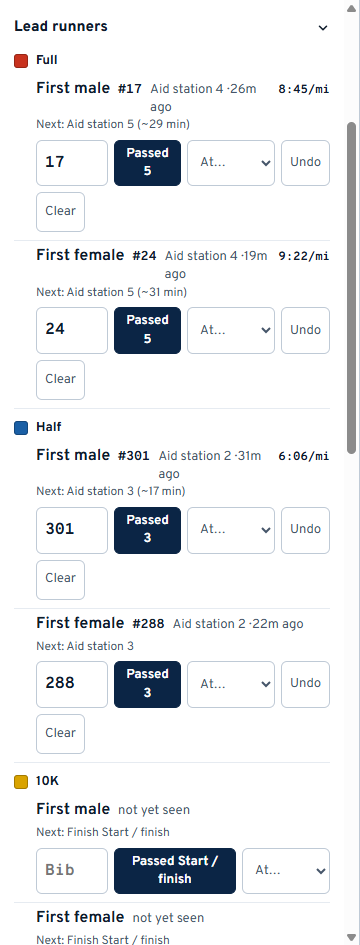
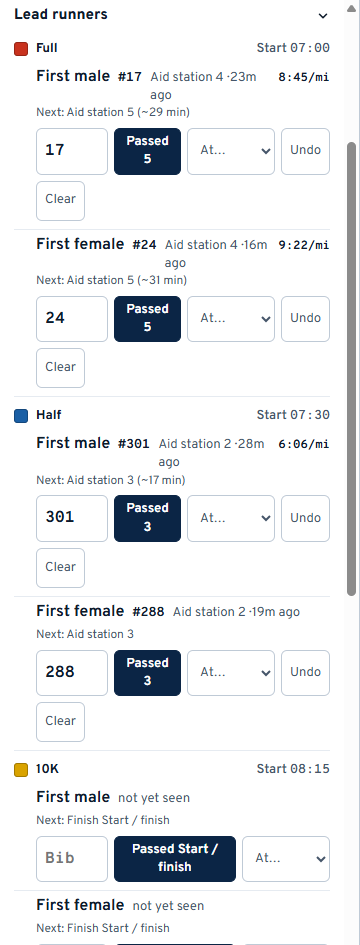
feat: race start times beside the bib colour on the lead runners (#183)
A Start column on the Courses tab stores course.start_time as 'HH:MM',
24-hour, in the event's zone, and each race's lead runners heading reads
"Full - Purple bibs  Start 07:00". Never converted: it is a time on the
day as the club typed it. Anything that is not a clock time is refused
rather than guessed at. Demo seed carries start times; the NCS lead
runners guide screenshot is re-shot.

Claude-Session: https://claude.ai/code/session_01QkbtsMnQEe8HZ7xyxXHYHB

diff --git a/src/courseops/static/setup.js b/src/courseops/static/setup.js
@@ -1288,7 +1288,7 @@ async function loadCourses() {
   const stacked = [...data.courses].reverse();
   $('course-table').innerHTML = data.courses.length ? `
     <table class="grid"><thead><tr><th></th><th>Course</th><th>Distance</th>
-      <th>Line</th><th>Bib colour</th><th></th></tr></thead><tbody>` +
+      <th>Line</th><th>Bib colour</th><th>Start</th><th></th></tr></thead><tbody>` +
     stacked.map((c) => `<tr data-row="${c.id}">
       <td class="grip-cell">${iconBtn('grip', {'data-grip': c.id},
         `Reorder ${c.name} - drag, or use the arrow keys; the top course draws on top`)}</td>
@@ -1299,6 +1299,8 @@ async function loadCourses() {
             data-bib="${c.id}">
           <input placeholder="Yellow" value="${esc(c.bib_color_name || '')}"
             data-bibname="${c.id}" style="width:90px"></td>
+      <td><input type="time" value="${esc(c.start_time || '')}" data-start="${c.id}"
+            aria-label="Start time of ${esc(c.name)}"></td>
       <td class="actions">${iconBtn('remove', {'data-delc': c.id}, `Delete ${c.name}`)}</td>
     </tr>`).join('') + '</tbody></table>'
     : '<p class="muted">No courses yet — upload a KML on the Import tab.</p>';
@@ -1327,6 +1329,7 @@ async function loadCourses() {
       { attr: 'color', name: 'color' },
       { attr: 'bib', name: 'bib_color' },
       { attr: 'bibname', name: 'bib_color_name' },
+      { attr: 'start', name: 'start_time' },
     ],
     save: (id, payload) => {
       // The two bib fields are one setting on the server (set_bib_color

diff --git a/src/courseops/static/app.js b/src/courseops/static/app.js
@@ -1638,6 +1638,18 @@ function renderLeaders() {
         ? `${leader.course_name} — ${leader.bib_color_name} bibs`
         : leader.course_name;
       head.append(swatch, name);
+      /* The start is what a leader's clock time is read against, and waves
+         start apart. Printed as stored: 'HH:MM' in the event's zone is
+         already the shape clockTime() gives everything else here. */
+      if (leader.start_time) {
+        const start = document.createElement('span');
+        start.className = 'leader-start';
+        const time = document.createElement('span');
+        time.className = 'data';
+        time.textContent = leader.start_time;
+        start.append('Start ', time);
+        head.append(start);
+      }
       host.appendChild(head);
     }
 

diff --git a/src/courseops/static/app.css b/src/courseops/static/app.css
@@ -1023,6 +1023,16 @@ body {
   font-weight: 700;
 }
 .leader-course:first-child { margin-top: 0; }
+.leader-course { flex-wrap: wrap; }
+/* Pushed to the right edge, and onto its own line under the name on a
+   narrow phone rather than squeezing the race name. The time inside takes
+   the data face (.data); the word "Start" does not. */
+.leader-start {
+  margin-left: auto;
+  font-weight: 600;
+  color: var(--ink-soft);
+  white-space: nowrap;
+}
 /* The bib colour, not the map line colour: an operator identifies a runner by
    the bib in front of them. */
 .leader-swatch {

diff --git a/tests/test_start_times.py b/tests/test_start_times.py
@@ -1,0 +1,123 @@
+"""A race's start time, shown beside its bib colour on the lead runners.
+
+Waves start at different times - the Full at 07:00, the Half at 07:30 -
+and "Purple bibs, started 07:00" is what someone reads a leader's time
+against. Stored as the club typed it, a 24-hour clock time in the event's
+own zone: it is a time on the day, not an instant, so there is nothing
+for a phone in another zone to convert and get wrong.
+"""
+from __future__ import annotations
+
+from pathlib import Path
+
+import pytest
+from fastapi.testclient import TestClient
+
+from courseops import access, admin, db, importer, leaders, progress, users, web
+from courseops.config import Settings
+from courseops.web import create_app
+
+FIXTURE = Path(__file__).parent / "fixtures" / "messy_course.kml"
+
+
+@pytest.fixture
+def race(tmp_path):
+    db_path = tmp_path / "t.sqlite3"
+    conn = db.connect(db_path)
+    db.init_schema(conn)
+    event_id = db.create_event(conn, "m2026", "Spring Marathon",
+                               center_lat=34.7, center_lon=-86.5)
+    importer.stage_file(conn, event_id, FIXTURE)
+    line = next(r["id"] for r in importer.pending_features(conn, event_id)
+                if r["geom_type"] == "linestring")
+    course_id, _, _ = importer.assign_course(conn, event_id, [line], name="Full")
+    return conn, db_path, event_id, course_id
+
+
+@pytest.mark.parametrize("typed, stored", [
+    ("07:00", "07:00"),
+    ("7:00", "07:00"),
+    (" 7:05 ", "07:05"),
+    ("13:30", "13:30"),
+])
+def test_a_start_time_is_stored_as_24_hour_hh_mm(race, typed, stored):
+    conn, _, event_id, course_id = race
+    saved = admin.update_course(conn, event_id, course_id, {"start_time": typed})
+    assert saved["start_time"] == stored
+
+
+@pytest.mark.parametrize("typed", ["7", "24:00", "07:60", "seven", "7:00 AM", ["x"]])
+def test_a_start_time_that_is_not_a_clock_time_is_refused(race, typed):
+    """Refused with a message, not stored: this is read against a leader's
+    time on race morning, and a wrong one is worse than none."""
+    conn, _, event_id, course_id = race
+    with pytest.raises(ValueError):
+        admin.update_course(conn, event_id, course_id, {"start_time": typed})
+
+
+def test_emptying_it_clears_it(race):
+    conn, _, event_id, course_id = race
+    admin.update_course(conn, event_id, course_id, {"start_time": "07:00"})
+    saved = admin.update_course(conn, event_id, course_id, {"start_time": ""})
+    assert saved["start_time"] is None
+
+
+def test_setting_it_leaves_the_bib_colour_alone(race):
+    conn, _, event_id, course_id = race
+    leaders.set_bib_color(conn, event_id, course_id, "#6633cc", "Purple")
+    saved = admin.update_course(conn, event_id, course_id, {"start_time": "07:00"})
+    assert (saved["bib_color"], saved["bib_color_name"]) == ("#6633cc", "Purple")
+
+
+def test_the_leader_carries_it(race):
+    conn, _, event_id, course_id = race
+    admin.update_course(conn, event_id, course_id, {"start_time": "07:00"})
+    index = progress.CourseIndex.for_event(conn, event_id)
+    entry = leaders.for_event(conn, event_id, index)[0]
+    assert entry.as_dict()["start_time"] == "07:00"
+
+
+def test_an_existing_database_gets_the_column(tmp_path):
+    conn = db.connect(tmp_path / "old.sqlite3")
+    db.init_schema(conn)
+    conn.execute("ALTER TABLE course DROP COLUMN start_time")
+    db.init_schema(conn)
+    names = {r["name"] for r in conn.execute("PRAGMA table_info(course)")}
+    assert "start_time" in names
+
+
+def test_set_in_setup_it_reaches_every_role(race):
+    conn, db_path, event_id, course_id = race
+    tokens = access.ensure_tokens(conn, event_id)
+    users.create_user(conn, "mike", "a-long-enough-password", "system_admin")
+    conn.close()
+    app = create_app(Settings(callsign="KI4TST", passcode="-1", host="h", port=1,
+                              db_path=db_path, log_level="WARNING"))
+    with TestClient(app) as client:
+        client.post("/api/setup/login",
+                    json={"username": "mike", "password": "a-long-enough-password"})
+        response = client.post(f"/api/setup/events/{event_id}/courses/{course_id}",
+                               json={"start_time": "07:00"})
+        assert response.status_code == 200, response.text
+        for role in access.ROLES:
+            data = client.get(f"/api/m2026/{tokens[role]}/state").json()
+            assert {l["start_time"] for l in data["leaders"]} == {"07:00"}, role
+
+
+# --- the clients --------------------------------------------------------------
+
+APP_JS = (web.STATIC_DIR / "app.js").read_text(encoding="utf-8")
+SETUP_JS = (web.STATIC_DIR / "setup.js").read_text(encoding="utf-8")
+
+
+def test_the_lead_runner_heading_names_the_start():
+    head = APP_JS[APP_JS.index("head.className = 'leader-course'"):]
+    head = head[:head.index("host.appendChild(head)")]
+    assert "leader.start_time" in head
+
+
+def test_the_courses_table_edits_it_and_saves_it_with_the_rest():
+    table = SETUP_JS[SETUP_JS.index("$('course-table').innerHTML"):]
+    table = table[:table.index("noun: 'course(s)'")]
+    assert 'type="time"' in table and "data-start=" in table
+    assert "{ attr: 'start', name: 'start_time' }" in table

diff --git a/src/courseops/admin.py b/src/courseops/admin.py
@@ -394,6 +394,27 @@ def list_courses(conn: sqlite3.Connection, event_id: int) -> list[dict]:
     return [dict(row) for row in importer.courses_for_event(conn, event_id)]
 
 
+_CLOCK = re.compile(r"^(\d{1,2}):(\d{2})$")
+
+
+def _start_time(payload: dict) -> str | None:
+    """A race's start as 'HH:MM', 24-hour, or None when the box is empty.
+
+    The setup form's time input always sends 'HH:MM'; a hand-typed '7:00'
+    is padded. Anything else is refused rather than guessed at - "7:00 AM"
+    included - because this is read against a leader's time on race
+    morning, and a wrong start is worse than none.
+    """
+    text = _text(payload, "start_time")
+    if text is None:
+        return None
+    match = _CLOCK.match(text)
+    if not match or int(match.group(1)) > 23 or int(match.group(2)) > 59:
+        raise ValueError(
+            f"{text!r} is not a start time. Use a 24-hour time, such as 07:00.")
+    return f"{int(match.group(1)):02d}:{match.group(2)}"
+
+
 @db.transactional
 def update_course(conn: sqlite3.Connection, event_id: int, course_id: int,
                   payload: dict) -> dict:
@@ -406,6 +427,10 @@ def update_course(conn: sqlite3.Connection, event_id: int, course_id: int,
             _text(payload, "bib_color_name") if "bib_color_name" in payload
             else leaders.KEEP,
         )
+    if "start_time" in payload:
+        conn.execute(
+            "UPDATE course SET start_time = ? WHERE id = ? AND event_id = ?",
+            (_start_time(payload), course_id, event_id))
     style_fields: dict[str, Any] = {}
     if "color" in payload:
         style_fields["color"] = _text(payload, "color") or ""

diff --git a/src/courseops/leaders.py b/src/courseops/leaders.py
@@ -80,6 +80,8 @@ class Leader:
     # The club's own wording, carried on the row because it is per event and a
     # constant in this module is exactly what this replaced.
     division_name: str | None = None
+    # 'HH:MM' in the event's zone, as typed in setup; shown beside the bibs.
+    start_time: str | None = None
     last_poi_id: int | None = None
     last_poi_name: str | None = None
     last_distance_m: float | None = None
@@ -102,6 +104,7 @@ class Leader:
             "course_name": self.course_name,
             "bib_color": self.bib_color,
             "bib_color_name": self.bib_color_name,
+            "start_time": self.start_time,
             "division": self.division,
             "division_label": self.division_label,
             "last_poi_id": self.last_poi_id,
@@ -385,6 +388,7 @@ def _leader_for(
         course_name=course["name"],
         bib_color=course["bib_color"] or course["color"],
         bib_color_name=course["bib_color_name"],
+        start_time=course["start_time"],
         division=division,
         division_name=division_name,
     )

diff --git a/tools/seed_demo.py b/tools/seed_demo.py
@@ -73,9 +73,11 @@ tmp.write_text('<?xml version="1.0"?><kml xmlns="http://www.opengis.net/kml/2.2"
 importer.stage_file(conn, event_id, tmp)
 feats = {r["name"]: r["id"] for r in importer.pending_features(conn, event_id)}
 course_ids = {}
-for name, color, order in (("Full", "#c8321e", 30), ("Half", "#1a5fa5", 20), ("10K", "#d9a300", 10)):
+for name, color, order, start in (("Full", "#c8321e", 30, "07:00"),
+                                  ("Half", "#1a5fa5", 20, "07:30"),
+                                  ("10K", "#d9a300", 10, "08:15")):
     cid, _, _ = importer.assign_course(conn, event_id, [feats[name]], name=name, color=color)
-    admin.update_course(conn, event_id, cid, {"sort_order": order})
+    admin.update_course(conn, event_id, cid, {"sort_order": order, "start_time": start})
     course_ids[name] = cid
 
 # Places along the Full, by index into the line.

diff --git a/src/courseops/db.py b/src/courseops/db.py
@@ -137,6 +137,7 @@ _ADDED_COLUMNS: list[tuple[str, str, str]] = [
     ("position", "packets", "INTEGER NOT NULL DEFAULT 1"),
     ("event", "archived_at", "TEXT"),
     ("event", "net_info", "TEXT"),
+    ("course", "start_time", "TEXT"),
 ]
 
 # Columns whose sensible starting value comes from data already in the table.

diff --git a/CLAUDE.md b/CLAUDE.md
@@ -57,7 +57,7 @@ python -m venv .venv
 ./.venv/Scripts/python.exe -m pip install -e ".[dev]"   # Windows
 cp .env.example .env                                    # then set APRS_CALLSIGN
 
-./.venv/Scripts/python.exe -m pytest -q                 # 825 tests, no network
+./.venv/Scripts/python.exe -m pytest -q                 # 842 tests, no network
 
 courseops init-db
 courseops add-event marathon2026 "Spring Marathon 2026" --lat 34.73 --lon -86.58
@@ -1176,6 +1176,7 @@ Rules that keep this honest:
 
 Last 10 entries; full record in `CHANGELOG.md`.
 
+- **2026-09-29** Race start times: a Start column on the Courses tab, shown beside the bib colour in each race's lead runners heading; `course.start_time`, 'HH:MM' in the event's zone, never converted.
 - **2026-09-29** Net info: the net's repeaters and tones as free text on the event form, shown to every role at the top of the panel (on a phone, above the lifted role sections).
 - **2026-09-27** Archive an event (#4): tracking off, positions deleted, links 404, hidden behind Show archived; Download / `courseops export` writes one event to a SQLite file, `serve --db` reads it.
 - **2026-09-27** Runbook: a station whose age keeps climbing - check the phone app's send path (APRS-IS/TNC switches), aprs.fi raw, then the server log.
@@ -1185,4 +1186,3 @@ Last 10 entries; full record in `CHANGELOG.md`.
 - **2026-09-15** Event notes: freeform, location-less notes for the organizer ("bring more pizza next year"), addable from every link including Staff, readable by NCS, Liaison and Logistics only; under Course notes for NCS, at the bottom of the sheet otherwise; on the after-event report.
 - **2026-09-15** One position per station and no raw payload (#166): a fix replaces the previous one, `raw` is blank, a count is all that survives; existing databases pruned at startup.
 - **2026-09-15** Fixed: the OwnTracks QR was refused on a real iPhone until *Settings → Remote Control → Allow external configuration* is on; it is now the step before the scan on the card and in the guides.
-- **2026-09-15** `/help/phone-tracking`: the guide for the person being tracked - install, permission Always, scan, set Tracker ID, turn it off after.

diff --git a/CHANGELOG.md b/CHANGELOG.md
@@ -13,6 +13,17 @@ month, PATCH counting releases in that month from 0. Before that they were
 
 ### Added
 
+- **Race start times beside the bib colour.** The Courses tab in setup has a
+  **Start** column (a time box) per race, saved with the rest of the table,
+  and each race's heading on the lead runners reads *Full - Purple bibs,
+  Start 07:00*. Stored as `course.start_time`, 'HH:MM' on a 24-hour clock in
+  the event's zone - a time on the day as the club typed it, not an instant,
+  so no phone converts it. Anything that is not a clock time, "7:00 AM"
+  included, is refused with a message rather than guessed at, because it is
+  read against a leader's time on race morning. The demo seed carries start
+  times and the NCS lead runners screenshot is re-shot. Why it mattered:
+  waves start apart, and a leader's clock time means little without the
+  start it is read against.
 - **Net info: the net's frequencies on every link.** A box on the event
   form in setup takes the repeaters, tones and backup frequencies as free
   text, one channel a line, and every role link shows it under **Net info**

diff --git a/src/courseops/guides/setup.md b/src/courseops/guides/setup.md
@@ -113,6 +113,12 @@ Each race gets a line colour and a **bib colour**, which are two different
 things: the line colour is a map choice, the bib colour is how an aid station
 operator says *"first yellow male just came through"*.
 
+**Start** is the race's start time, on a 24-hour clock in the event's time
+zone (07:00, not 7:00 AM). It appears beside the bib colour at the top of each
+race's lead runners - *Full - Purple bibs, Start 07:00* - so a leader's time
+can be read against the wave they started in. Leave it empty and nothing is
+shown.
+
 Where routes share pavement, the course nearest the top of this list draws on
 top. Drag the grip to change it. That is the order everyone starts with; any
 viewer can re-stack their own screen without affecting anybody else.

diff --git a/docs/PLAN.md b/docs/PLAN.md
@@ -355,6 +355,12 @@ UI for moving a marker yet. Today the fix is for NCS or SAG to delete it.
 
 ## Resolved questions
 
+- *How is a race's start time stored?* (2026-09-29) - `course.start_time`,
+  'HH:MM' 24-hour in the event's zone, as typed, never converted: it is a
+  time on the day, and the lead runners heading prints it as it stands. Not
+  yet used for pace - a first sighting could give a pace from the start,
+  but gun time vs. the leader crossing the mat is a question for the club
+  before it is a number anyone acts on.
 - *Where do the net's frequencies live?* (2026-09-29) - `event.net_info`,
   free text edited on the event form, shown to every role under Net info.
   Free text over a channel table: a table has no place for "switch to the
